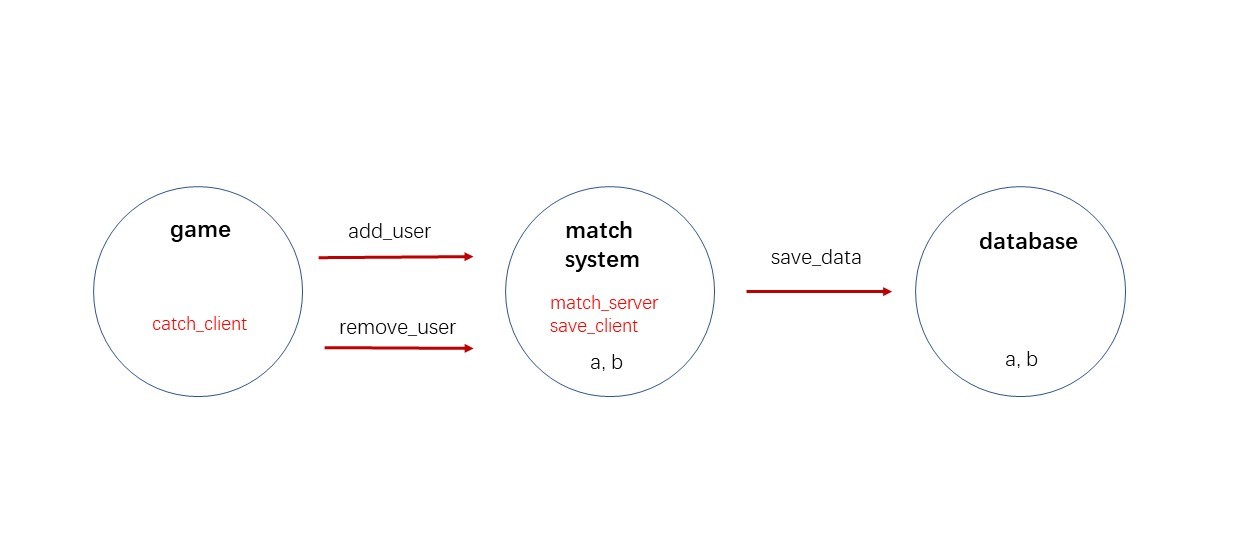
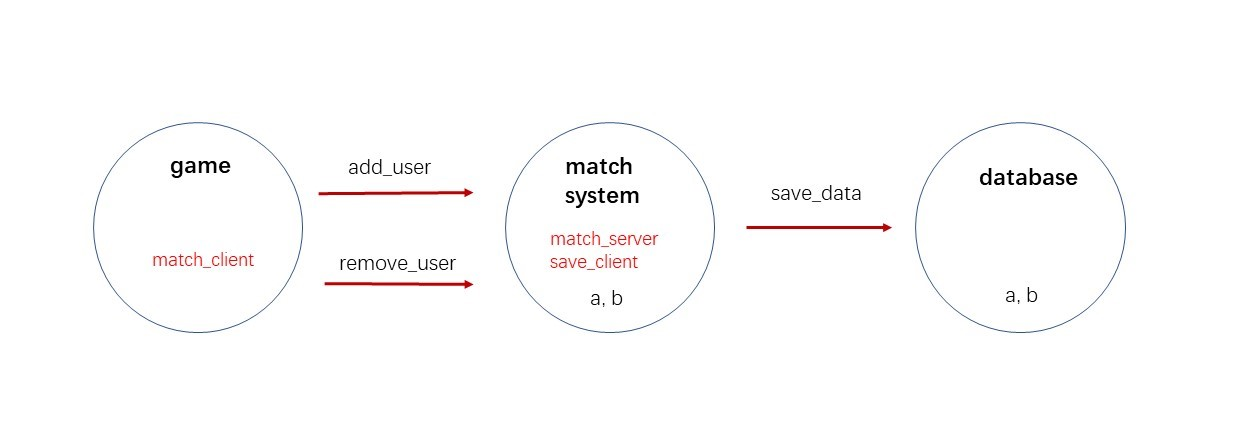
add the process of creating match_server and save_client

diff --git a/readme.md b/readme.md
@@ -1,9 +1,53 @@
-### Fundamentals of Linux
-
-#### Lesson_6 Introduction to Thrift
+###  Introduction to Thrift
 
 Thrift is a kind of RPC(Remote Procedure Call) framework.
 
 The structure of this simple project is shown below
 
 ![structure](https://github.com/Noob-Bob/Thrift_Lesson/blob/master/Repo_image/structure.jpg?raw=true)
+
+#### Process of the Project
+
+1. Create match-server
+
+   ```
+   cd thrift_lesson/match_system/src
+   thrift -r --gen cpp ../../thrift/match.thrift
+   mv gen-cpp/ match_server
+   rm match_server/Match_server.skeleton.cpp
+   ```
+
+2. Create save-client
+
+   ```
+   cd thrift_lesson/match_system/src
+   thrift -r --gen cpp ../../thrift/save.thrift
+   mv gen-cpp/ save_client
+   rm save_client/Save_server.skeleton.cpp
+   ```
+
+
+3. Create main.cpp
+
+   The source code is [here](https://github.com/Noob-Bob/Thrift_Lesson/blob/master/match_system/src/main.cpp)
+
+4. Compile
+
+   ```
+   g++ -c main.cpp match_server/*.cpp save_client/*.cpp
+   ```
+   
+5. Link
+
+   ```
+   g++ *.o -o main -lthrift -pthread
+   ```
+   
+6. Start the server
+
+   ```
+   ./main
+   ```
+
+   
+
